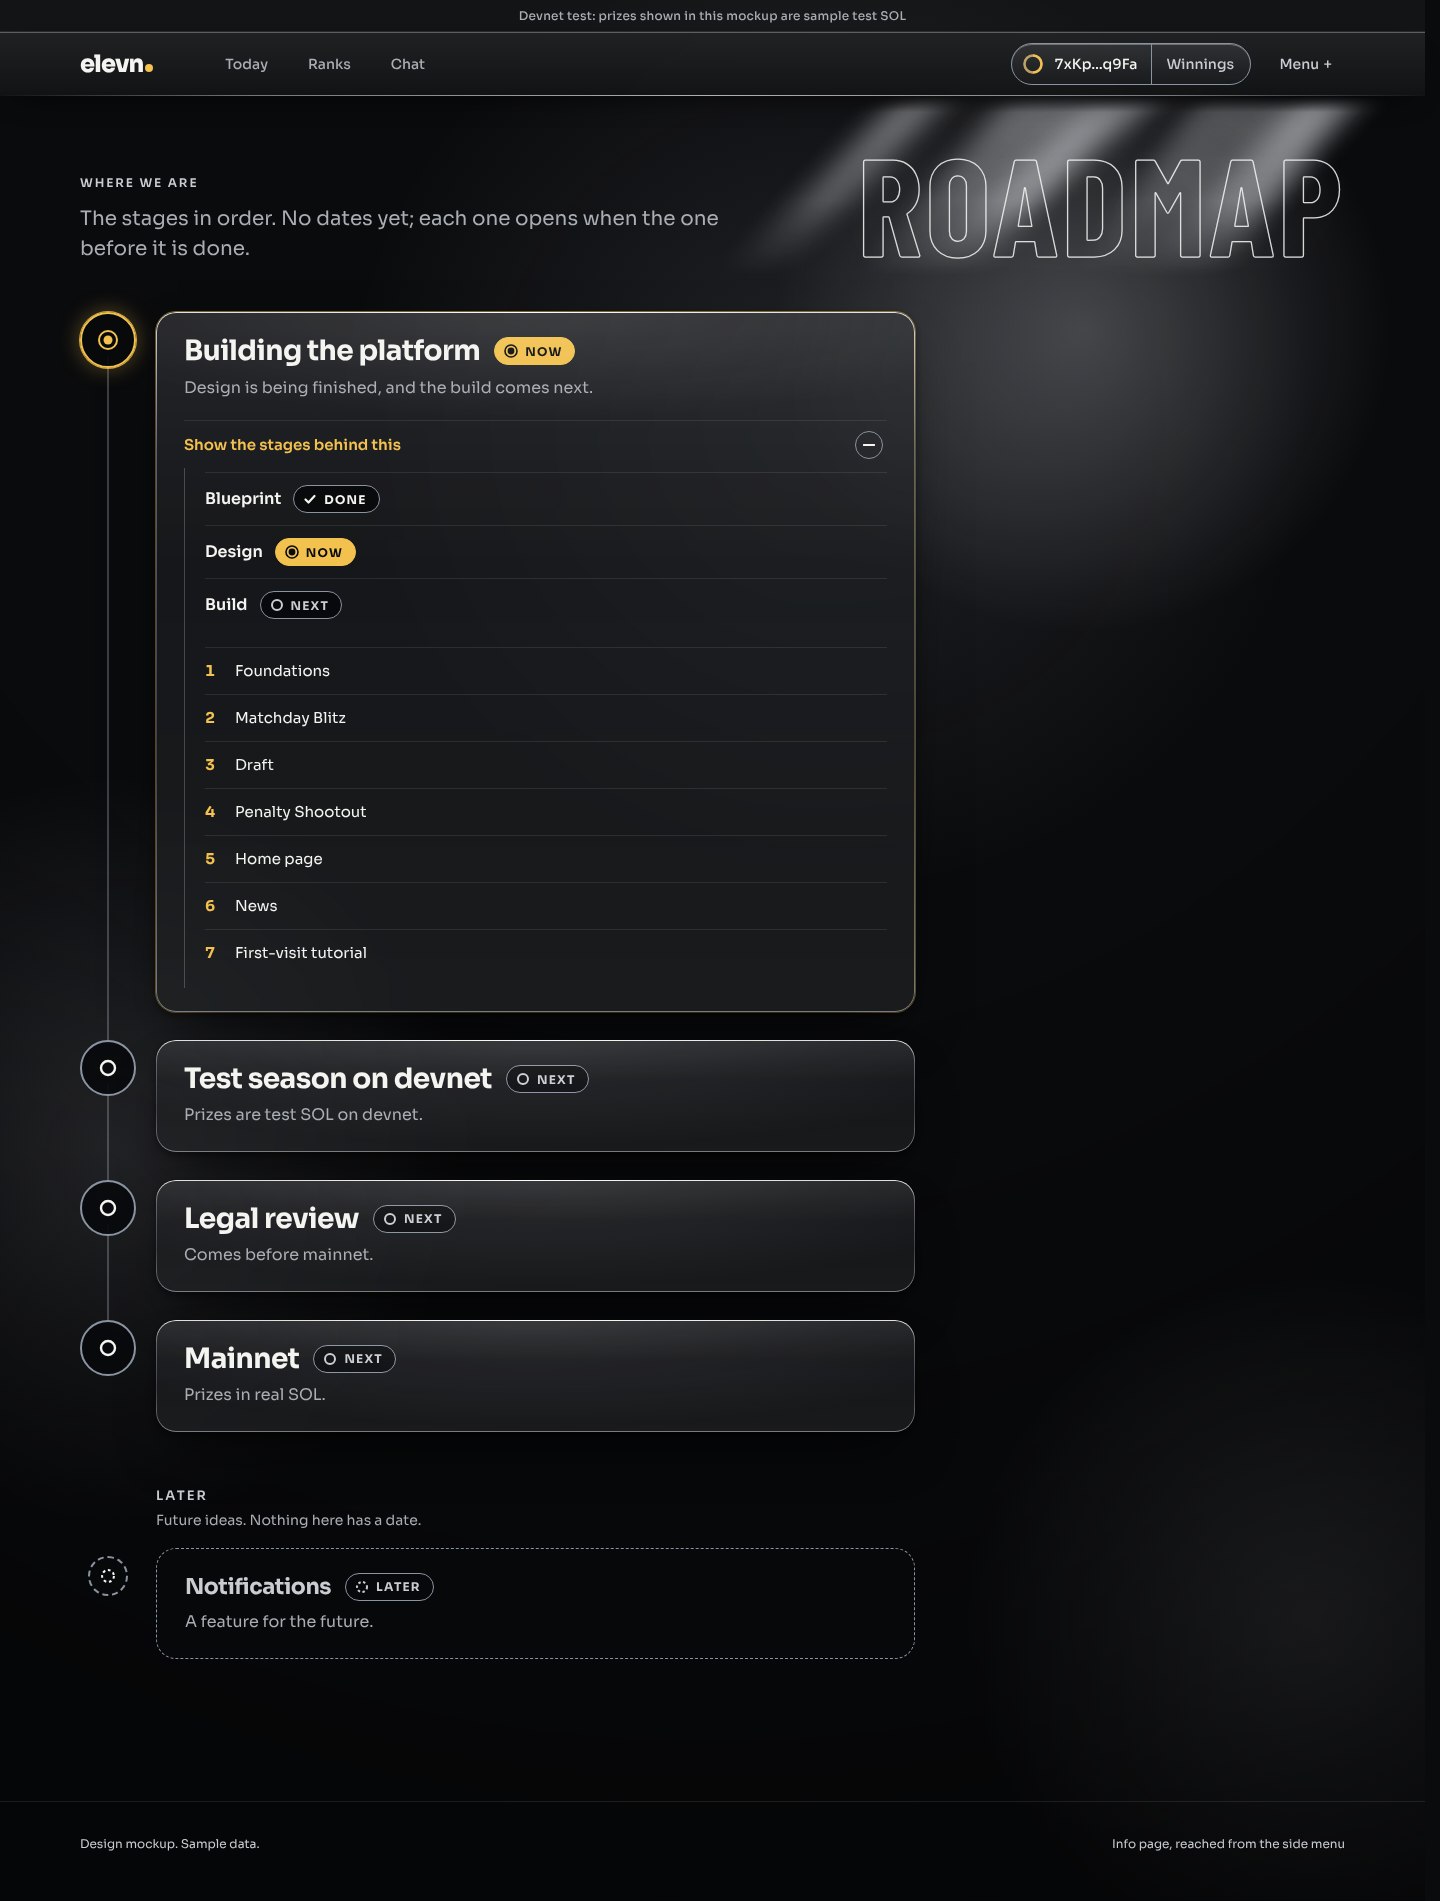
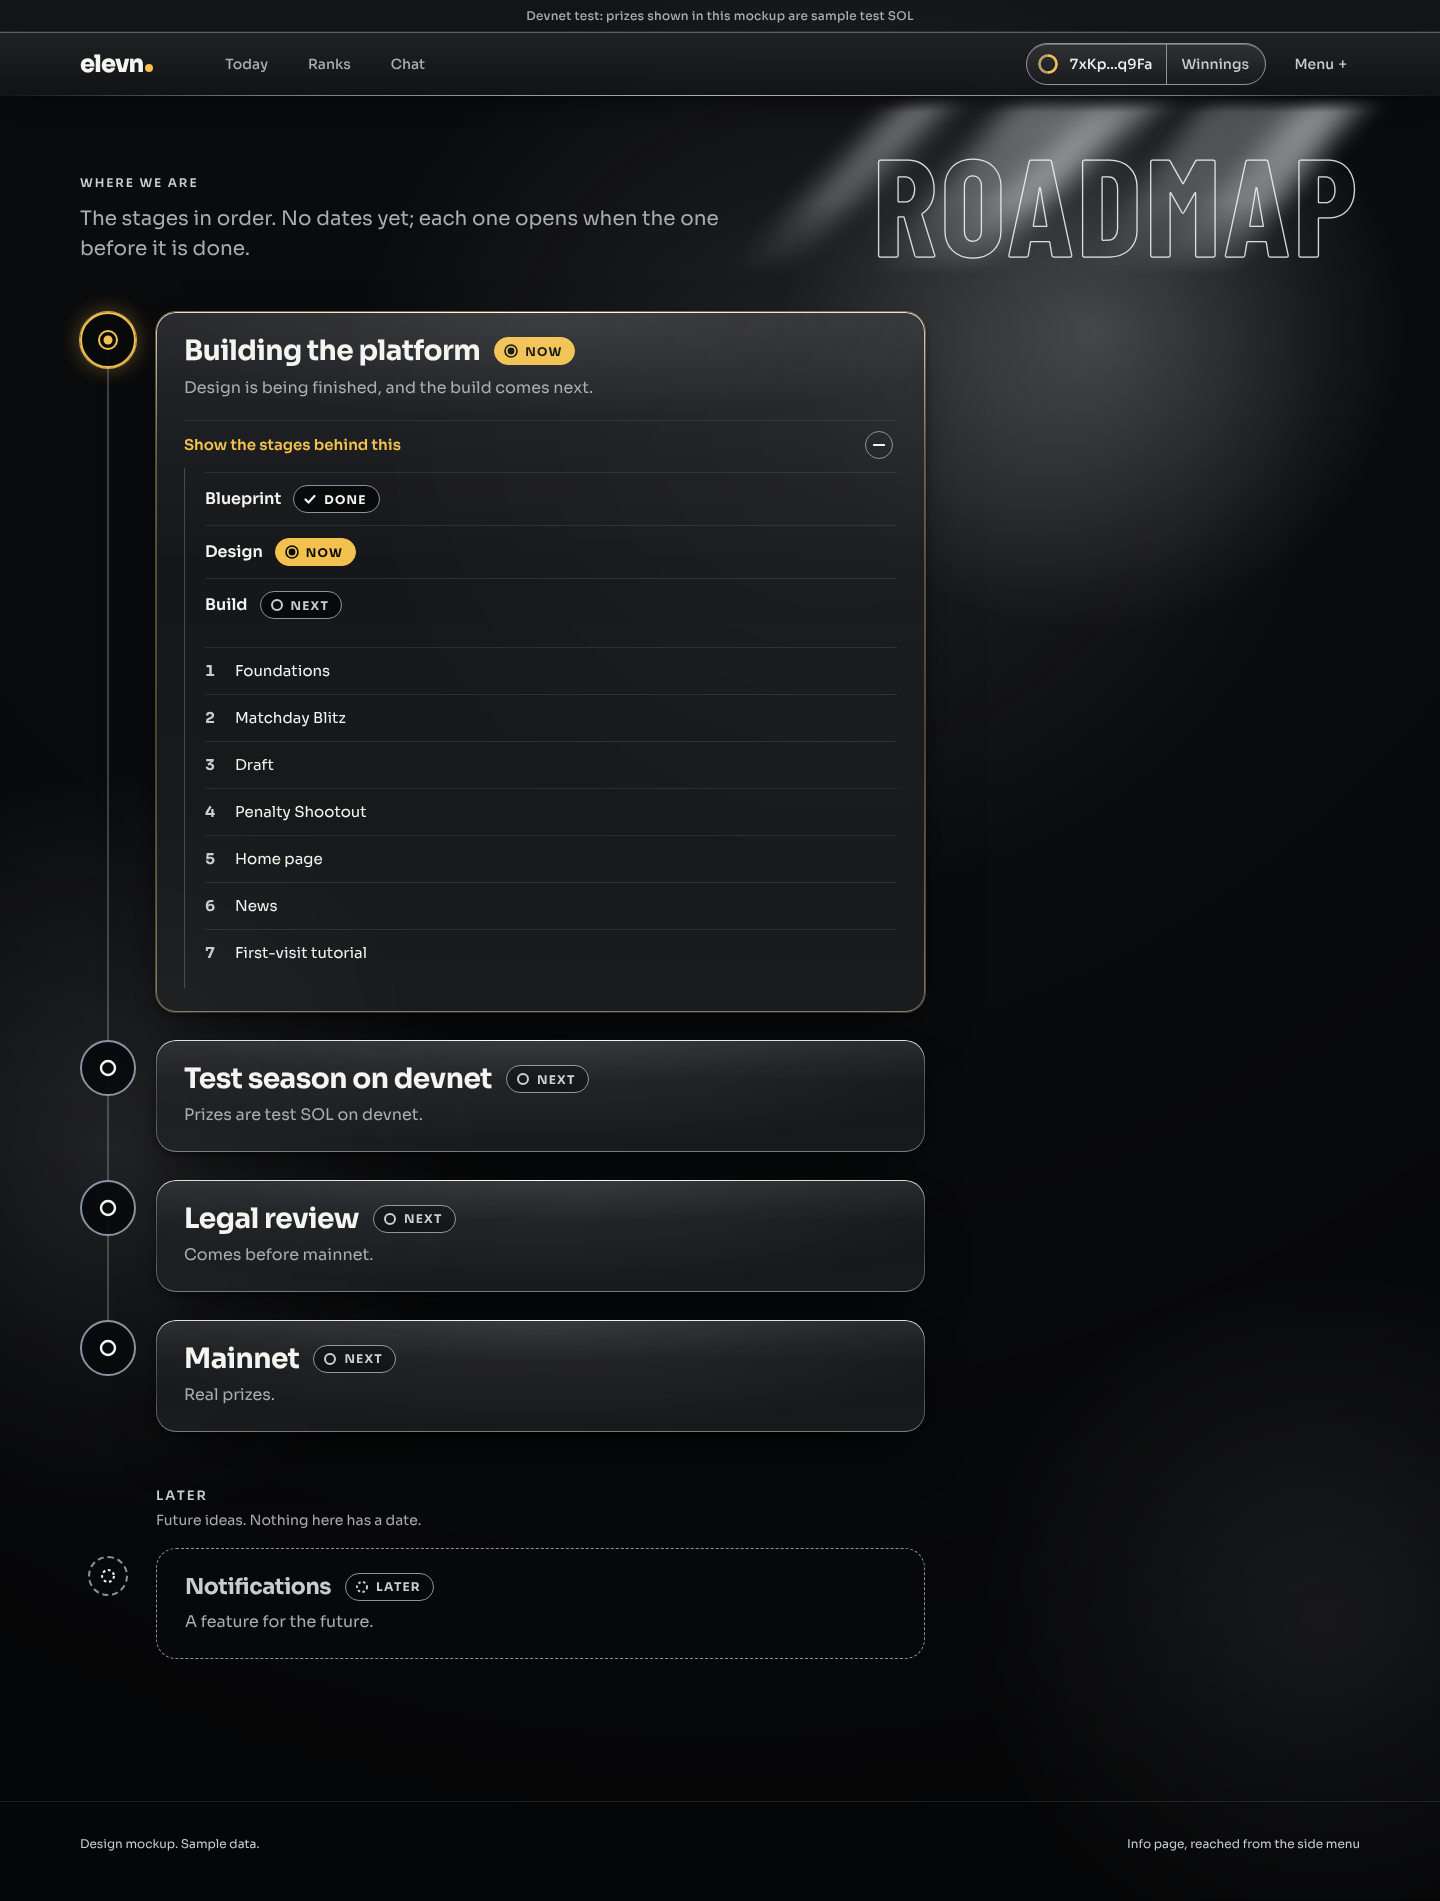
Mockups: second review fixes (menu label on How to play, steel build numbers, no scrollbar gutter; page width kept while the menu is open)
Claude-Session: https://claude.ai/code/session_012GbKymxq8Mwy7J7Kp4CrmR

diff --git a/docs/design/mockups/info-how.css b/docs/design/mockups/info-how.css
@@ -1,8 +1,4 @@
 /* How to play mockup. Extra rules only; the shared look is in mock.css. */
-.hw-facts { display: grid; grid-template-columns: repeat(3, minmax(0, 1fr)); gap: 24px; margin-bottom: 24px; }
-.hw-facts .glass { padding: 24px 28px; border-radius: 20px; }
-.hw-facts .small { margin-top: 8px; color: var(--muted); }
-.hw-facts .eyebrow { color: var(--text); }
 .hw-steps { list-style: none; margin: 0; padding: 8px 40px; border-radius: 24px; }
 .hw-step { display: grid; grid-template-columns: 64px minmax(0, 1fr) 360px; column-gap: 32px; align-items: center; padding: 36px 0; border-top: 1px solid var(--line); }
 .hw-step:first-child { border-top: 0; }
@@ -13,7 +9,7 @@
 .hw-list li { margin-top: 6px; }
 .hw-list li::marker { color: var(--steel); }
 .hw-v { display: flex; justify-content: flex-start; align-items: center; min-width: 0; flex-wrap: wrap; gap: 12px; }
-.lbl { display: block; font-size: 13px; color: var(--muted); margin-bottom: 6px; }
+.hw-v .lbl { display: block; font-size: 13px; color: var(--muted); margin-bottom: 6px; }
 .hw-tiers { display: grid; grid-template-columns: 1fr 1fr; gap: 12px; width: 100%; }
 .hw-tiers > div, .hw-col > div { padding: 14px 16px; border: 1px solid var(--steel-edge); border-radius: 12px; background: var(--sheen), var(--row); }
 .hw-tiers b, .hw-col b { font-size: 22px; font-weight: 700; letter-spacing: -.01em; display: block; }
@@ -40,7 +36,6 @@
 .hw-end { display: flex; align-items: center; justify-content: space-between; gap: 24px; margin: 32px 0 128px; flex-wrap: wrap; }
 
 @media (max-width: 1100px) {
-  .hw-facts { grid-template-columns: 1fr; }
   .hw-steps { padding: 8px 28px; }
   .hw-step { grid-template-columns: 56px minmax(0, 1fr); row-gap: 20px; }
   .hw-v { grid-column: 2; }

diff --git a/docs/design/mockups/menu.js b/docs/design/mockups/menu.js
@@ -42,12 +42,15 @@
   function open(fromHash, byKey) {
     if (isOpen) return; isOpen = true;
     p.style.setProperty('--menu-top', Math.max(0, nav.getBoundingClientRect().bottom) + 'px');
+    var sb = window.innerWidth - document.documentElement.clientWidth;   // the scrollbar the lock is about to hide
+    if (sb > 0) document.documentElement.style.paddingRight = sb + 'px';   // so the page does not shift
     document.documentElement.classList.add('menu-lock'); document.body.classList.add('menu-open'); btn.setAttribute('aria-expanded', 'true'); btn.innerHTML = LABEL_CLOSE;
     if (!fromHash) setHash(true);
     var f = focusables(); (byKey && f[0] ? f[0] : p).focus({ preventScroll: true });
   }
   function close(noFocus) {
     if (!isOpen) return; isOpen = false;
+    document.documentElement.style.paddingRight = '';
     document.documentElement.classList.remove('menu-lock'); document.body.classList.remove('menu-open'); btn.setAttribute('aria-expanded', 'false'); btn.innerHTML = LABEL_OPEN;
     setHash(false); if (!noFocus) btn.focus();
   }

diff --git a/docs/design/mockups/info-pages.css b/docs/design/mockups/info-pages.css
@@ -119,7 +119,7 @@
 .txl:hover { text-decoration-color: var(--steel); }
 .stage ol.steps { list-style: none; counter-reset: st; padding: 0; margin: 16px 0 0; }
 .stage ol.steps li { counter-increment: st; display: flex; gap: 14px; }
-.stage ol.steps li::before { content: counter(st); color: var(--accent); font-weight: 700; min-width: 16px; }
+.stage ol.steps li::before { content: counter(st); color: var(--steel); font-weight: 700; min-width: 16px; }
 .handle { font-size: 16px; font-weight: 600; color: var(--text); }
 .behind { margin-top: 20px; }
 .behind summary { list-style: none; cursor: pointer; display: flex; align-items: center; justify-content: space-between; gap: 16px; min-height: 48px; padding: 0 4px 0 0; border-top: 1px solid var(--line); font-size: 15px; font-weight: 600; }

diff --git a/docs/design/mockups/menu.css b/docs/design/mockups/menu.css
@@ -30,6 +30,3 @@ body.menu-open .menu-panel { transform: none; visibility: visible; transition-de
 @media (max-width: 700px) { .menu-btn { min-width: 40px; padding: 0 10px; font-size: 20px; } .menu-btn .lbl { position: absolute; width: 1px; height: 1px; overflow: hidden; clip: rect(0 0 0 0); } .menu-panel { width: 100vw; } .menu-panel .mp-in { padding: 24px 20px; } .menu-panel .mp-main .t { font-size: 30px; } }
 @media (prefers-reduced-motion: reduce) { .menu-panel, .menu-scrim { transition: none !important; } }
 .menu-panel:focus, .menu-panel:focus-visible { outline: none; }
-
-/* keep the page from shifting sideways when the scroll lock hides the scrollbar */
-html { scrollbar-gutter: stable; }
